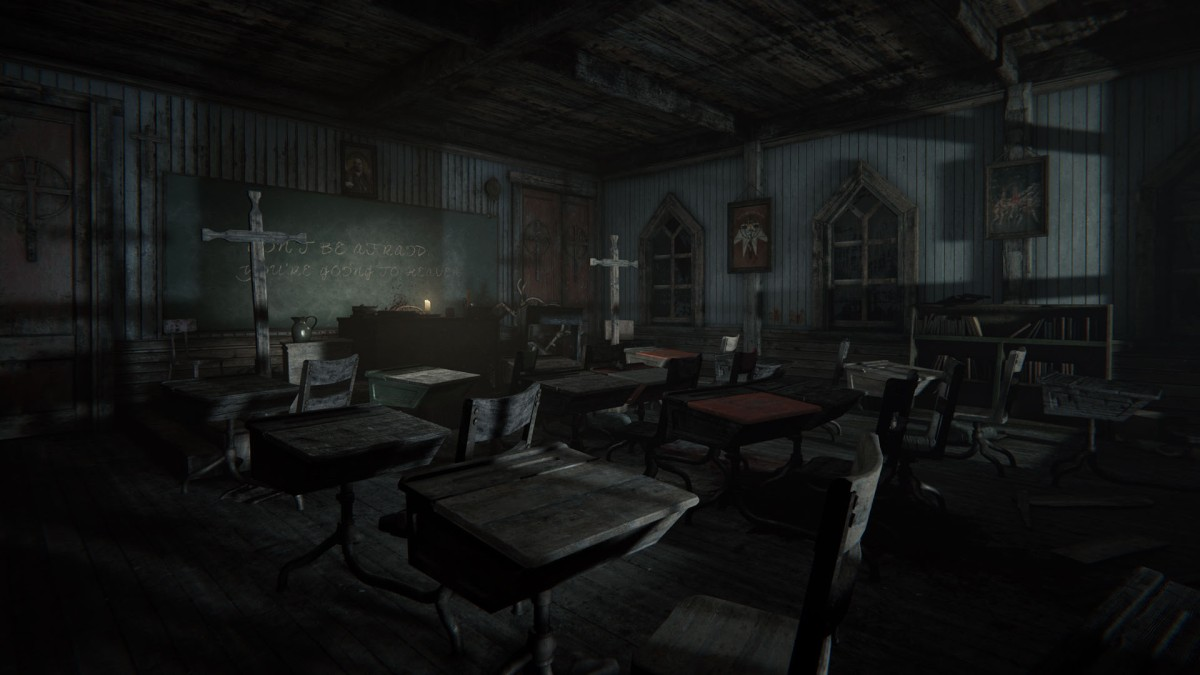
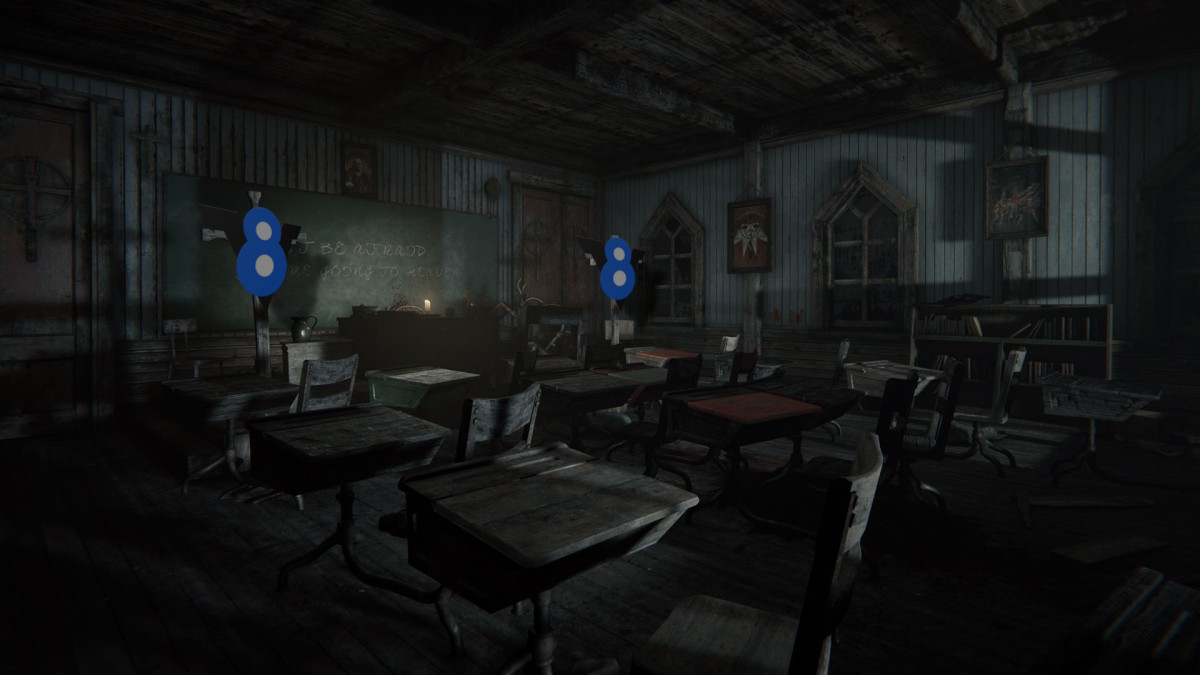
adding leveling and click functioning

Changed region(s): [[0.185, 0.3111, 0.2775, 0.4978], [0.4933, 0.3422, 0.555, 0.4667]]

diff --git a/js/app.js b/js/app.js
@@ -10,18 +10,16 @@ const start = {
   background: images[3],
   option1: images[1],
   option2: images[0],
-  message: "Make your choice and stop bothering me",
-  level: 'lvl-0',
+  message: "You wake up on a dark road with two choices before you...do you enter the house that screams of malevolence...or do you enter the building that offers knowledge that leads one to madness?",
+  level: 0,
 }
-
-// changeBackground(8)
 
 const hauntedHouse = {
   background: images[8],
   option1: images[9],
   option2: images[9],
   message: "I probably wouldn't choose either of them if i were you",
-  level: 'lvl-1',
+  level: 1,
 }
 
 const GABuilding = {
@@ -29,7 +27,7 @@ const GABuilding = {
   option1: images[9],
   option2: images[9],
   message: "Maybe...you should have chosen Flatiron?",
-  level: 'lvl-2',
+  level: 2,
 }
 
 const classroom = {
@@ -37,11 +35,48 @@ const classroom = {
   option1: images[9],
   option2: images[9],
   message: "Can't believe it actually worked",
-  level: 'lvl-5',
+  level: 5,
 }
 
+const GAInside = {
+  background: images[6],
+  option1: images[9],
+  option2: images[9],
+  message: "Is it working????",
+  level: 6,
+}
 
+// const basement = {
+//   background:
+//   option1:
+//   option2:
+//   message:
+//   level: 3
+// }
 
+// const upstairs = {
+//   background:
+//   option1:
+//   option2:
+//   message:
+//   level: 4
+// }
+
+// const escape = {
+//   background:
+//   option1:
+//   option2:
+//   message:
+//   level: 7
+// }
+
+// const final = {
+//   background:
+//   option1:
+//   option2:
+//   message:
+//   level: 8
+// }
 
 
 //---------------------CACHED ELEMENT REFERENCES-----
@@ -55,20 +90,26 @@ const option2 = document.querySelector("#option2")
 
 const message = document.querySelector("#message")
 
-let test = document.querySelector('p')
-
 // ----------------EVENT LISTENERS---------------
 
 option1.addEventListener('click', () => {
-  if (lvlId === 'lvl-2') {
+  if (lvlId === 2) {
     replace(classroom)
-  } else if (lvlId === 'lvl-0') {
+  } else if (lvlId === 1) {
+    replace(basement)
+  } else if (lvlId === 0) {
     replace(hauntedHouse)
   }
 })
 
 option2.addEventListener('click', () => {
-  
+  if (lvlId === 2) {
+    replace(GAInside)
+  } else if (lvlId === 1) {
+    replace(upstairs)
+  } else if (lvlId === 0) {
+    replace(GABuilding)
+  }
 })
 
 player.addEventListener('click', () => {
@@ -80,6 +121,7 @@ player.addEventListener('click', () => {
 
 // -------------------FUNCTIONS---------------------------
 init()
+
 function init() {
   replace(start)
 }
@@ -109,14 +151,13 @@ function changeMessage(obj) {
 }
 
 function changeLevel(obj) {
-  let lvlId = document.querySelector(`#${obj.level}`)
-  document.createElement('div', { id : `${obj.level}`})
+  lvlId = obj.level
   return lvlId
 }
 
-function webcamEnding() {
+// function webcamEnding() {
 
-}
+// }
 
 function replay() {
   init()

diff --git a/index.html b/index.html
@@ -5,6 +5,9 @@
   <meta http-equiv="X-UA-Compatible" content="IE=edge">
   <meta name="viewport" content="width=device-width, initial-scale=1.0">
   <title>Choose Your Horror</title>
+  <style>
+    @import url('https://fonts.googleapis.com/css2?family=Special+Elite&display=swap');
+    </style>
   <link rel="stylesheet" href="css/style.css">
   <script defer src ="js/app.js"></script>
 </head>

diff --git a/css/style.css b/css/style.css
@@ -55,6 +55,8 @@ html {
   color: whitesmoke;
   border: 1px solid red;
   text-align: center;
+  font-size: 1.7rem;
+  font-family: 'Special Elite', cursive;
 }
 
 #player {
